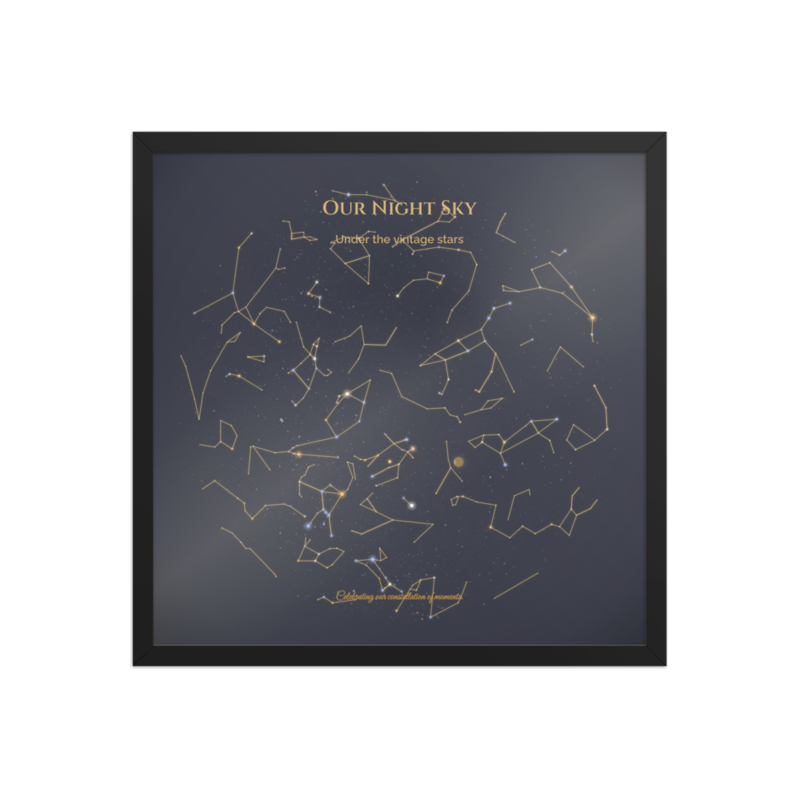
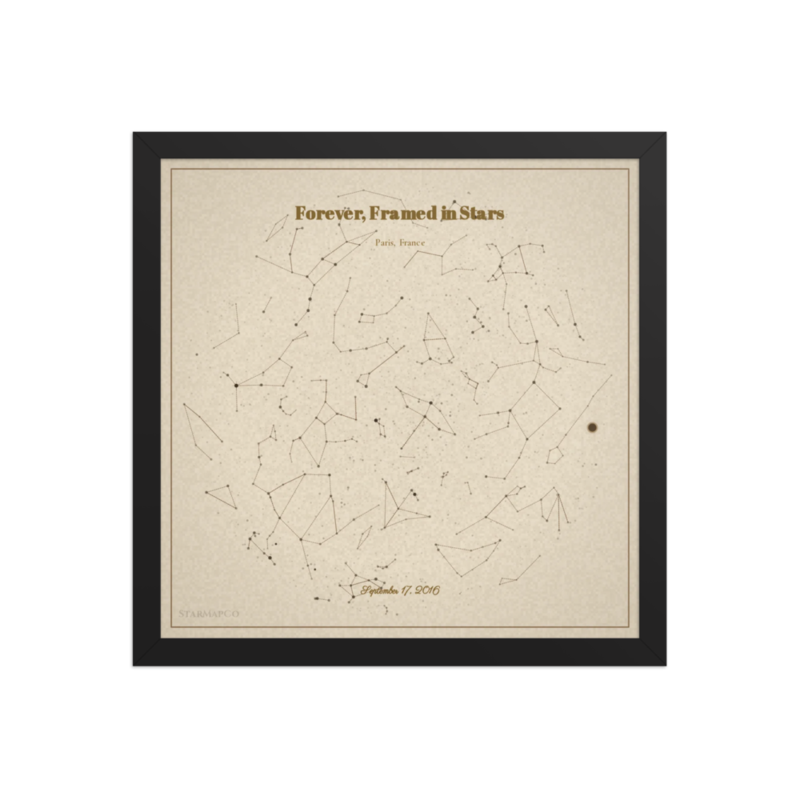
feat(print): upgrade proof assets and mockups

diff --git a/star-map-app-final/src/components/FramedProofSection.tsx b/star-map-app-final/src/components/FramedProofSection.tsx
@@ -5,7 +5,7 @@ import {
   getPrintAvailabilityBadgeLabel,
   getPrintShippingDisclosure,
 } from "@/lib/printCheckoutConfig";
-import { getFramedProofImage } from "@/lib/printProofAssets";
+import { getFramedProofImage, getUnframedProofImage } from "@/lib/printProofAssets";
 import { formatPrice, getPrintDigitalAddOnPrice, getPrintPricingTiers } from "@/lib/pricing";
 
 type FramedProofSectionProps = {
@@ -33,6 +33,7 @@ export default function FramedProofSection({
   );
   const digitalAddOnPrice = formatPrice(digitalAddOn.amountCents, digitalAddOn.currency);
   const framedProofImage = getFramedProofImage();
+  const unframedProofImage = getUnframedProofImage();
 
   return (
     <section className="brand-light-panel content-visibility-auto mt-6 overflow-hidden rounded-3xl">
@@ -42,39 +43,39 @@ export default function FramedProofSection({
             <ResilientImage
               src={framedProofImage}
               fallbackSrc="/blog/anniversary/framed-star-map.jpg"
-              alt="Framed StarMapCo print displayed on a wall"
+              alt="Framed StarMapCo star map mockup"
               fill
               sizes="(max-width: 1024px) 100vw, 50vw"
               className="object-cover"
             />
             <div className="absolute bottom-3 left-3 rounded-full border border-black/10 bg-white/90 px-3 py-1 text-[11px] font-semibold text-midnight shadow-sm">
-              Framed in a real space
+              Framed print mockup
             </div>
           </div>
           <div className="relative min-h-[180px] overflow-hidden rounded-2xl border border-black/10 bg-white shadow-sm">
             <ResilientImage
-              src="/blog/anniversary/couple-under-stars.jpg"
-              fallbackSrc="/custom-star-map-anniversary.webp"
-              alt="Couple under the night sky"
+              src={unframedProofImage}
+              fallbackSrc="/printproof/unframed-catalog.jpg"
+              alt="Unframed StarMapCo poster mockup"
               fill
               sizes="(max-width: 1024px) 100vw, 25vw"
               className="object-cover"
             />
             <div className="absolute bottom-3 left-3 rounded-full border border-black/10 bg-white/90 px-3 py-1 text-[11px] font-semibold text-midnight shadow-sm">
-              Gift-ready sentiment
+              Unframed poster mockup
             </div>
           </div>
           <div className="relative min-h-[180px] overflow-hidden rounded-2xl border border-black/10 bg-white shadow-sm">
             <ResilientImage
-              src="/blog/anniversary/anniversary-night-sky.jpg"
+              src="/examples/example-anniversary-heirloom.webp"
               fallbackSrc="/custom-star-map-anniversary.webp"
-              alt="Night sky over a landscape"
+              alt="Rendered star map from the current StarMapCo engine"
               fill
               sizes="(max-width: 1024px) 100vw, 25vw"
               className="object-cover"
             />
             <div className="absolute bottom-3 left-3 rounded-full border border-black/10 bg-white/90 px-3 py-1 text-[11px] font-semibold text-midnight shadow-sm">
-              The moment captured
+              Current engine render
             </div>
           </div>
         </div>

diff --git a/star-map-app-final/src/app/HomeStaticSections.tsx b/star-map-app-final/src/app/HomeStaticSections.tsx
@@ -133,17 +133,24 @@ export default function HomeStaticSections({
             <p className="text-xs font-semibold uppercase tracking-[0.25em] text-amber-400">What your map could look like</p>
             <h2 className="max-[374px]:text-[1.65rem] text-3xl font-semibold text-white sm:text-4xl">See the render and the framed finish before you start</h2>
             <p className="max-w-3xl text-base text-neutral-200 sm:text-lg">
-              A mix of freshly rendered examples from the current engine and a photographed framed piece, so buyers can judge both the on-screen design and the physical gift.
+              A mix of current-engine renders and real product mockups, so buyers can judge both the on-screen design and the physical gift before checkout.
             </p>
           </div>
           <div className="grid grid-cols-1 gap-4 sm:grid-cols-2 sm:gap-4 md:gap-5 xl:grid-cols-4 lg:gap-6 stagger-children visible">
             {[
               {
-                imageSrc: "/blog/anniversary/framed-star-map.jpg",
+                imageSrc: proofImages.framed,
                 occasion: "Framed print",
-                renderMode: "Real space",
-                caption: "Physical proof photographed on the wall",
+                renderMode: "Mockup",
+                caption: "Generated from the same artwork buyers preview before checkout",
                 badge: "FRAMED",
+              },
+              {
+                imageSrc: proofImages.unframed,
+                occasion: "Unframed poster",
+                renderMode: "Mockup",
+                caption: "Lower-cost physical option with the same star map artwork",
+                badge: "POSTER",
               },
               ...featuredRenderExamples.map((item) => {
                 const [occasion, renderMode] = item.title.split(" · ");
@@ -186,7 +193,7 @@ export default function HomeStaticSections({
             ))}
           </div>
           <p className="text-sm text-neutral-200 sm:text-base lg:text-[13px] lg:leading-snug">
-            Compare the framed finish with strong current-engine examples before you ever reach checkout. The goal is simple: no guessing about what the gift will look like.
+            Compare the physical product mockups with current-engine render examples before you ever reach checkout. The goal is simple: no guessing about what the gift will look like.
           </p>
         </div>
       </section>

diff --git a/star-map-app-final/tests/ui-smoke.spec.ts b/star-map-app-final/tests/ui-smoke.spec.ts
@@ -97,11 +97,11 @@ test("homepage finished example images load correctly", async ({ page }) => {
 test("homepage framed proof image resolves", async ({ page }) => {
   await primeLocalStorage(page);
   await page.goto("/", { waitUntil: "domcontentloaded" });
-  const framedProof = page.getByRole("img", { name: /Framed StarMapCo print displayed on a wall/i }).first();
+  const framedProof = page.getByRole("img", { name: /Framed StarMapCo star map mockup/i }).first();
   await expect(framedProof).toBeVisible({ timeout: 30000 });
   const src = (await framedProof.getAttribute("src")) ?? "";
   expect(src).toMatch(
-    /(printproof\/framed-latest\.png|printproof%2Fframed-latest\.png|blog\/anniversary\/framed-star-map\.jpg|blog%2Fanniversary%2Fframed-star-map\.jpg)/,
+    /(printproof\/framed-mockup\.jpg|printproof%2Fframed-mockup\.jpg|printproof\/framed-latest\.png|printproof%2Fframed-latest\.png|blog\/anniversary\/framed-star-map\.jpg|blog%2Fanniversary%2Fframed-star-map\.jpg)/,
   );
 });
 
@@ -118,10 +118,10 @@ test("homepage delivery cards show framed and unframed proof visuals", async ({ 
   const framedSrc = (await framedCardImage.getAttribute("src")) ?? "";
   const unframedSrc = (await unframedCardImage.getAttribute("src")) ?? "";
   expect(framedSrc).toMatch(
-    /(printproof\/framed-latest\.png|printproof%2Fframed-latest\.png|printproof\/framed-catalog\.jpg|printproof%2Fframed-catalog\.jpg)/,
+    /(printproof\/framed-mockup\.jpg|printproof%2Fframed-mockup\.jpg|printproof\/framed-latest\.png|printproof%2Fframed-latest\.png|printproof\/framed-catalog\.jpg|printproof%2Fframed-catalog\.jpg)/,
   );
   expect(unframedSrc).toMatch(
-    /(printproof\/unframed-latest\.png|printproof%2Funframed-latest\.png|printproof\/unframed-catalog\.jpg|printproof%2Funframed-catalog\.jpg|examples\/example-wedding-aurora-heart\.webp|examples%2Fexample-wedding-aurora-heart\.webp)/,
+    /(printproof\/unframed-mockup\.jpg|printproof%2Funframed-mockup\.jpg|printproof\/unframed-latest\.png|printproof%2Funframed-latest\.png|printproof\/unframed-catalog\.jpg|printproof%2Funframed-catalog\.jpg|examples\/example-wedding-aurora-heart\.webp|examples%2Fexample-wedding-aurora-heart\.webp)/,
   );
 });
 

diff --git a/star-map-app-final/src/components/HomeOfferStack.tsx b/star-map-app-final/src/components/HomeOfferStack.tsx
@@ -189,6 +189,9 @@ export default function HomeOfferStack({ priceLabels, printLabels, proofImages }
                 sizes="(max-width: 768px) 100vw, 33vw"
                 className="object-cover"
               />
+              <span className="absolute bottom-2 left-2 rounded-full border border-white/15 bg-black/45 px-2 py-0.5 text-[10px] font-semibold uppercase tracking-[0.12em] text-white">
+                Current render
+              </span>
             </div>
             <div className="flex items-center justify-between gap-2">
               <p className="text-sm font-semibold text-white">Instant digital</p>
@@ -225,6 +228,9 @@ export default function HomeOfferStack({ priceLabels, printLabels, proofImages }
                 sizes="(max-width: 768px) 100vw, 33vw"
                 className="object-cover"
               />
+              <span className="absolute bottom-2 left-2 rounded-full border border-black/10 bg-white/90 px-2 py-0.5 text-[10px] font-semibold uppercase tracking-[0.12em] text-midnight">
+                Real mockup
+              </span>
             </div>
             <div className="flex items-center justify-between">
               <p className="text-sm font-semibold text-white">Framed print</p>
@@ -262,6 +268,9 @@ export default function HomeOfferStack({ priceLabels, printLabels, proofImages }
                 sizes="(max-width: 768px) 100vw, 33vw"
                 className="object-cover"
               />
+              <span className="absolute bottom-2 left-2 rounded-full border border-black/10 bg-white/90 px-2 py-0.5 text-[10px] font-semibold uppercase tracking-[0.12em] text-midnight">
+                Real mockup
+              </span>
             </div>
             <span className="mb-1 inline-flex w-fit rounded-full border border-white/15 bg-white/10 px-2 py-0.5 text-[10px] font-semibold uppercase tracking-[0.14em] text-neutral-200">
               Physical saver

diff --git a/star-map-app-final/src/app/star-map-gift-formats/page.tsx b/star-map-app-final/src/app/star-map-gift-formats/page.tsx
@@ -149,14 +149,14 @@ export default function StarMapGiftFormatsPage() {
         <div className="space-y-2">
           <h2 className="text-xl font-semibold text-midnight">See the actual output style first</h2>
           <p className="text-sm text-neutral-800 sm:text-base">
-            This page is the full format catalog: live checkout options now, plus pilots queued for future launch.
+            This page is the full format catalog: current-engine render quality, live print mockups, and the pilot queue for future launch.
           </p>
         </div>
         <div className="grid gap-3 sm:grid-cols-3">
           {[
-            { src: "/custom-star-map-anniversary.webp", fallback: "/custom-star-map-anniversary.png", label: "Digital preview quality" },
-            { src: proofImages.framed, fallback: "/printproof/framed-catalog.jpg", label: "Framed print look" },
-            { src: proofImages.unframed, fallback: "/printproof/unframed-catalog.jpg", label: "Unframed poster look" },
+            { src: "/examples/example-anniversary-heirloom.webp", fallback: "/custom-star-map-anniversary.png", label: "Current engine render" },
+            { src: proofImages.framed, fallback: "/printproof/framed-catalog.jpg", label: "Framed print mockup" },
+            { src: proofImages.unframed, fallback: "/printproof/unframed-catalog.jpg", label: "Unframed poster mockup" },
           ].map((item) => (
             <div key={item.label} className="overflow-hidden rounded-2xl border border-black/10 bg-white shadow-sm">
               <div className="relative aspect-square">

diff --git a/star-map-app-final/src/lib/printProofAssets.ts b/star-map-app-final/src/lib/printProofAssets.ts
@@ -7,6 +7,10 @@ type PrintProofManifestEntry = {
 };
 
 type PrintProofManifest = {
+  mockups?: {
+    framed?: PrintProofManifestEntry | null;
+    unframed?: PrintProofManifestEntry | null;
+  } | null;
   framed?: PrintProofManifestEntry | null;
   unframed?: PrintProofManifestEntry | null;
   catalog?: {
@@ -38,7 +42,8 @@ function resolveLocalPublicPath(pathValue: string) {
 export function getFramedProofImage() {
   const fallback = "/blog/anniversary/framed-star-map.jpg";
   const manifest = readManifest();
-  const candidate = manifest?.framed?.localPath || manifest?.catalog?.framed?.localPath;
+  const candidate =
+    manifest?.mockups?.framed?.localPath || manifest?.framed?.localPath || manifest?.catalog?.framed?.localPath;
   if (!candidate || !isSafePublicPath(candidate)) return fallback;
   if (!existsSync(resolveLocalPublicPath(candidate))) return fallback;
   return candidate;
@@ -47,7 +52,8 @@ export function getFramedProofImage() {
 export function getUnframedProofImage() {
   const fallback = "/examples/example-wedding-aurora-heart.webp";
   const manifest = readManifest();
-  const candidate = manifest?.unframed?.localPath || manifest?.catalog?.unframed?.localPath;
+  const candidate =
+    manifest?.mockups?.unframed?.localPath || manifest?.unframed?.localPath || manifest?.catalog?.unframed?.localPath;
   if (!candidate || !isSafePublicPath(candidate)) return fallback;
   if (!existsSync(resolveLocalPublicPath(candidate))) return fallback;
   return candidate;

diff --git a/star-map-app-final/src/lib/printProofImagePaths.ts b/star-map-app-final/src/lib/printProofImagePaths.ts
@@ -1,10 +1,10 @@
 export const PRINT_PROOF_IMAGE_PATHS = {
   framed: {
-    src: "/printproof/framed-latest.png",
+    src: "/printproof/framed-mockup.jpg",
     fallback: "/printproof/framed-catalog.jpg",
   },
   unframed: {
-    src: "/printproof/unframed-latest.png",
+    src: "/printproof/unframed-mockup.jpg",
     fallback: "/printproof/unframed-catalog.jpg",
   },
 } as const;
